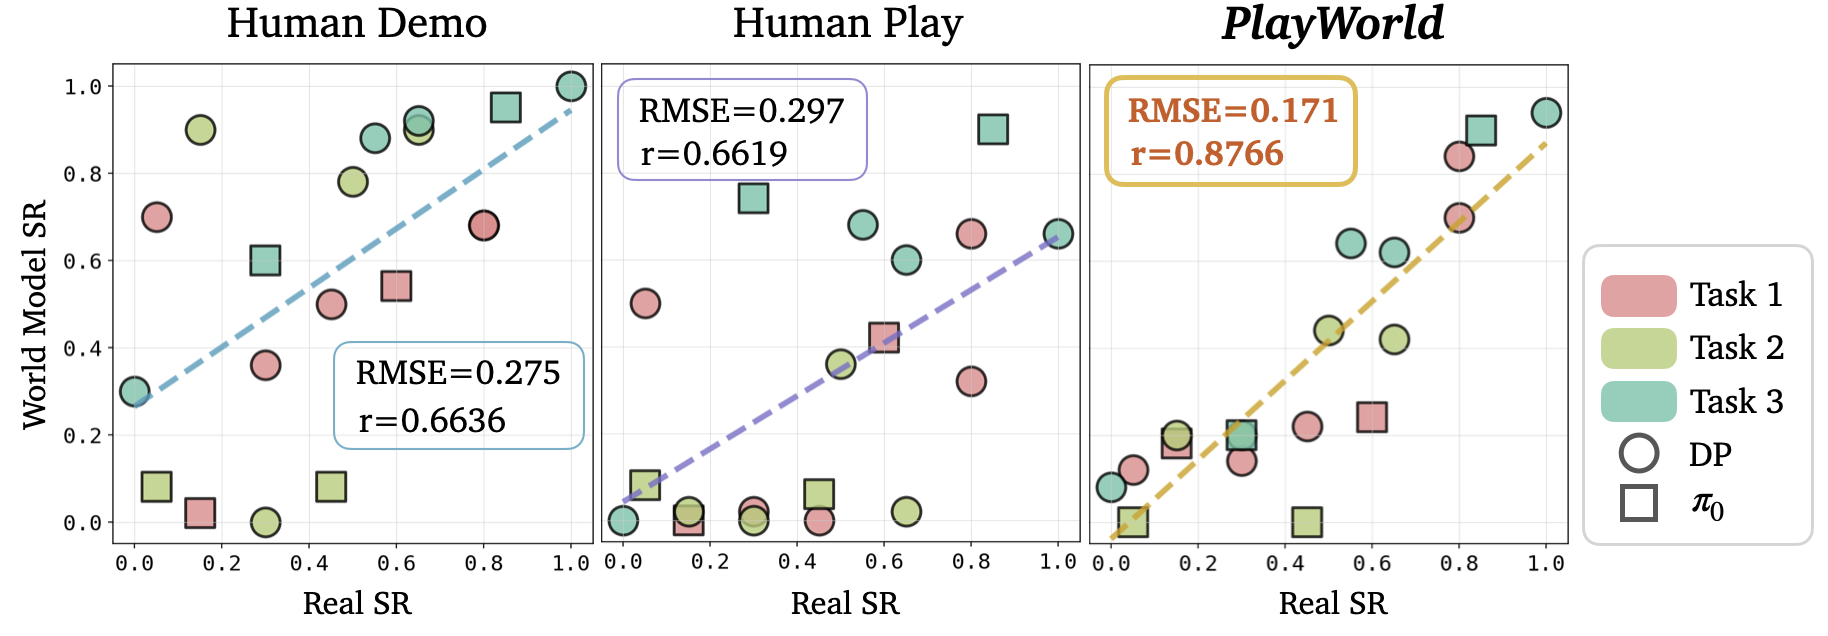
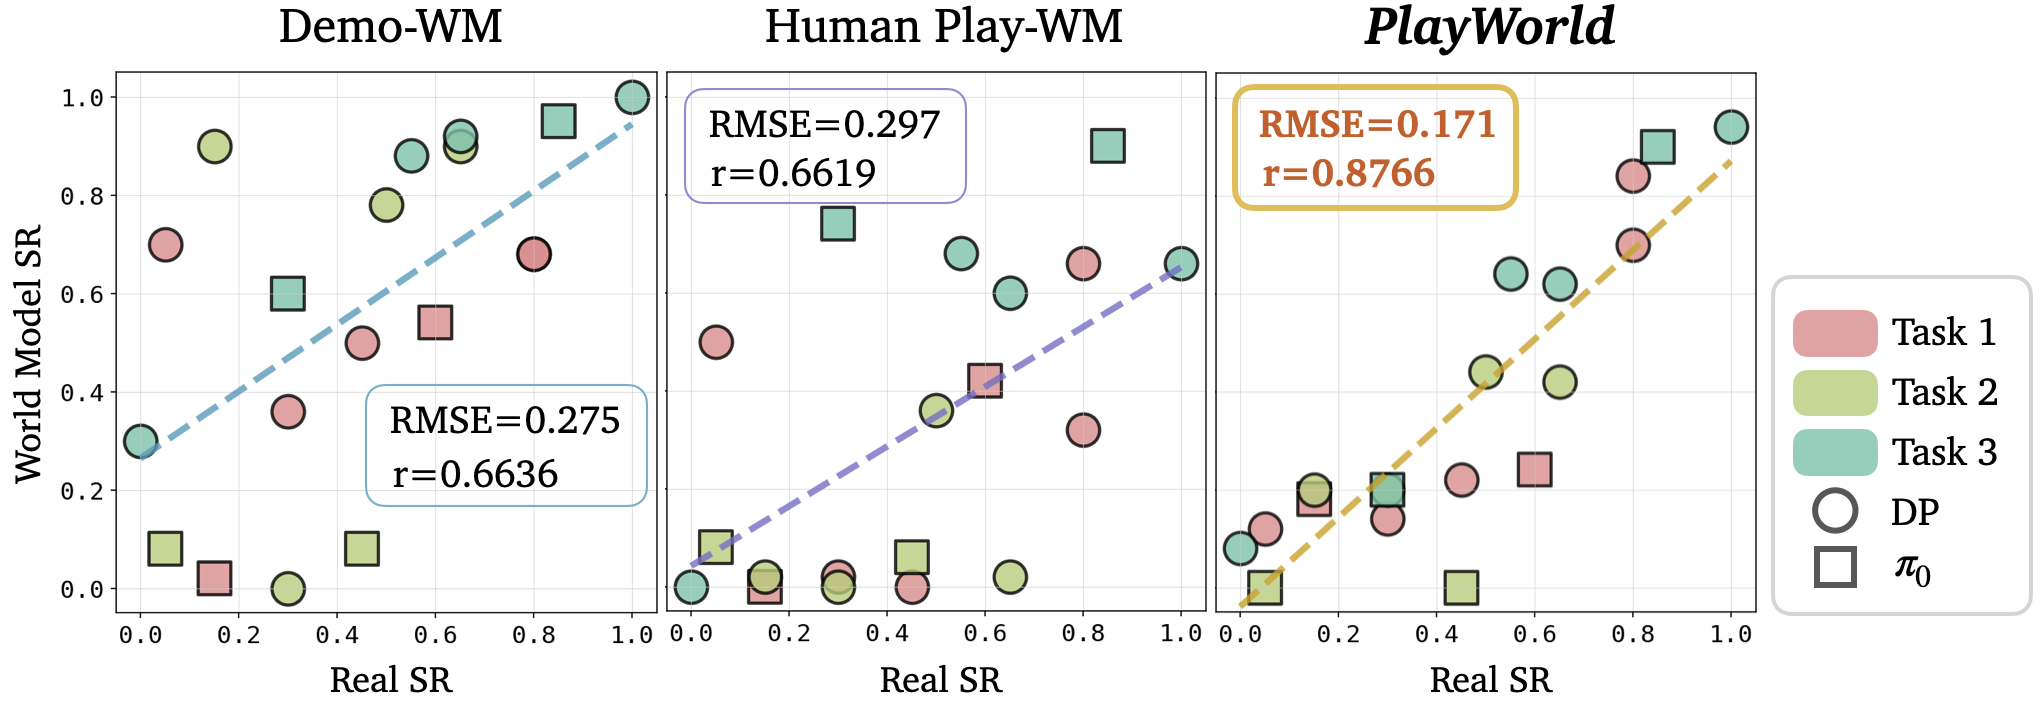
updated author list and text

diff --git a/index.html b/index.html
@@ -39,6 +39,7 @@
             <span style="color: #d84f00; font-weight: 900; letter-spacing: 0.01em;">PlayWorld:</span> Learning Robot World Models from Autonomous Play
           </h1>
           <div class="authors" style="margin: 0 auto 15px auto;">
+            <!--
             <a href="https://tenny-yinyijun.github.io/" target="_blank">Tenny Yin</a><sup>1</sup>,
             <a href="https://may0mei.github.io/" target="_blank">Zhiting Mei</a><sup>1</sup>,
             <a href="#">Zhonghe Zheng</a><sup>1</sup>,
@@ -48,12 +49,25 @@
             <a href="https://bateman.io/" target="_blank">Samuel M. Bateman</a><sup>1</sup>,
             <a href="https://lihzha.github.io/" target="_blank">Lihan Zha</a><sup>1</sup>,
             <a href="https://abadithela.github.io/" target="_blank">Apurva Badithela</a><sup>1</sup>,
-            <!-- <a href="#">David Yoon</a><sup>2</sup>,
+            <a href="#">David Yoon</a><sup>2</sup>,
             <a href="https://sites.google.com/site/petrsvecpersonalwebsite" target="_blank">Petr Svec</a><sup>2</sup>,
-            <a href="https://blandry.xyz/" target="_blank">Benoit Landry</a><sup>2</sup>, -->
+            <a href="https://blandry.xyz/" target="_blank">Benoit Landry</a><sup>2</sup>,
             <a href="https://msl.stanford.edu/people/olashorinwa" target="_blank">Ola Shorinwa</a><sup>1</sup>,
             <a href="https://irom-lab.princeton.edu/majumdar" target="_blank">Anirudha Majumdar</a><sup>1</sup>
             <span class="affiliation"><sup>1</sup>Princeton University
+            -->
+            <a href="https://tenny-yinyijun.github.io/" target="_blank">Tenny Yin</a>,
+            <a href="https://may0mei.github.io/" target="_blank">Zhiting Mei</a>,
+            <a href="#">Zhonghe Zheng</a>,
+            <a href="#">Miyu Yamane</a>,
+            <a href="#">David Wang</a>,
+            <a href="#">Jade Sceats</a>,<br>
+            <a href="https://bateman.io/" target="_blank">Samuel M. Bateman</a>,
+            <a href="https://lihzha.github.io/" target="_blank">Lihan Zha</a>,
+            <a href="https://abadithela.github.io/" target="_blank">Apurva Badithela</a>,
+            <a href="https://msl.stanford.edu/people/olashorinwa" target="_blank">Ola Shorinwa</a>,
+            <a href="https://irom-lab.princeton.edu/majumdar" target="_blank">Anirudha Majumdar</a>
+            <span class="affiliation">Princeton University</span>
             <!-- <span class="affiliation"><sup>1</sup>Princeton University, <sup>2</sup>Apple</span> -->
           </div>
           <div class="publication-links header-links">
@@ -80,7 +94,7 @@
   <section class="section" style="padding-top: 0;">
     <div class="container is-max-desktop"><div class="columns is-centered"><div class="column is-four-fifths">
       <img src="./images/banner.png" alt="PlayWorld banner figure" style="width: 100%; height: auto; display: block; border-radius: 12px;">
-      <p class="figure-caption" style="width: 95%; margin-top: 0.8rem;">We introduce <b><i>PlayWorld</b></i>, a scalable framework for training high-fidelity <b><span style="color: #c2410c;">Action-Conditioned Robot World Models</span></b> using <b><span style="color: #367faf;">Autonomous Robot Play</span></b> that can be used for dynamics prediction, reliable policy evaluation, and world-model-based RL fine-tuning that leads to strong real-world gains. Instead of relying on success-biased human demonstrations, it continuously gathers diverse, contact-rich interactions and failure cases that better match downstream policy rollouts.</p>
+      <p class="figure-caption" style="width: 95%; margin-top: 0.8rem;">We introduce <b><i>PlayWorld</b></i>, a scalable framework for training high-fidelity <b><span style="color: #c2410c;">Action-Conditioned Robot World Models</span></b> using <b><span style="color: #367faf;">Autonomous Play</span></b>. Instead of relying on success-biased human demonstrations, it continuously gathers diverse, contact-rich interactions and failure cases that better match downstream policy behaviors. The resulting model enables accurate <i>dynamics prediction</i>, reliable <i>policy evaluation</i>, and effective world-model-based <i>RL fine-tuning</i> that improves real-world performance.</p>
     </div></div></div>
   </section>
 
@@ -103,7 +117,7 @@
           <p class="figure-caption" style="width: 100%; text-align: center !important; font-style: italic; font-size: 0.92rem; margin-top: 0.45rem;">System overview for autonomous play-data collection.</p>
         </div>
         <div class="column is-half">
-          <p class="figure-caption" style="width: 100%; text-align: left; margin-bottom: 0.5rem;">Training accurate robot world models requires data that captures diverse physical interactions. Instead of relying on success-biased human demos, we leverage <b>robot play</b> consisting of task-agnostic interactions where the robot freely explores how objects respond to contact to obtain broader coverage of real-world dynamics.<br><span style="display: block; height: 0.3rem;"></span>PlayWorld generates play data at scale by using a VLM to propose diverse scene-grounded instructions and using a generalist policy to execute them. As shown above, combined with safety checks and automatic resets, this process yields rich, contact-heavy interactions and enables hours of unsupervised data collection with minimal human intervention, including over-night (videos are shown at 50x speed).</p>
+          <p class="figure-caption" style="width: 100%; text-align: left; margin-bottom: 0.5rem;">Training accurate robot world models requires data that captures diverse physical interactions. Instead of relying on success-biased human demonstrations, we leverage <b>robot play</b> consisting of task-agnostic interactions where the robot freely explores how objects respond to contact to obtain broader coverage of real-world dynamics.<br><span style="display: block; height: 0.3rem;"></span>PlayWorld generates play data at scale by using a VLM to propose diverse scene-grounded instructions and using a generalist policy to execute them. As shown above, combined with safety checks and automatic resets, this process yields rich, contact-heavy interactions and enables hours of unsupervised data collection with minimal human intervention, including over-night (videos are shown at 50x speed).</p>
         </div>
       </div>
     </div></div></div>
@@ -174,18 +188,19 @@
     <div class="container is-max-desktop"><div class="columns is-centered"><div class="column is-four-fifths">
       <h2 class="title is-3 has-text-centered">Policy Evaluation</h2>
       <p class="figure-caption" style="width: 95%; text-align: left; margin-bottom: 0.75rem;">Accurate dynamics prediction is critical for evaluating robot policies with fine behavioral difference and/or failure modes. To test whether PlayWorld supports reliable policy evaluation, we train a diverse set of policies with different architectures and demonstration qualities, producing a wide range of behaviors and failure modes. As shown below, PlayWorld’s predictions closely match real-world success rates and outcome distributions, enabling more reliable evaluation than models trained on human-collected data. We also show qualitative videos below to show the different predicted policy behaviors under different world model + policy combinations.</p>
-      <img src="./images/eval.png" alt="Policy evaluation figure" style="width: 85%; border-radius: 10px; border: 1px solid #ececec; display: block; margin: 0 auto 0.9rem;">
+      <img src="./images/eval.png" alt="Policy evaluation figure" style="width: 85%; border-radius: 10px; border: 1px solid #ececec; display: block; margin: 0 auto 0.45rem;">
+      <p class="figure-caption" style="width: 85%; text-align: center !important; font-size: 0.88rem; margin: 0 auto 0.9rem;">Success Rate Correlation between Real and World Models trained on different data mixtures.</p>
       <div class="dropdown-row"><div class="dropdown-group"><span class="dropdown-label">Policies (todo add 2 policies per task and annotate SR):</span><select id="policy-selection" class="dropdown-select" onchange="selectPolicy()"><option value="block" selected>Block Stacking</option><option value="carrot">Put Carrot in Bowl</option><option value="towel">Fold Towel</option></select></div></div>
-      <div id="policy-block" class="policy-section" style="margin-top: 1rem;"><div class="video-grid three-col"><div class="video-card"><p class="video-label">🌍 <strong>Real:</strong> <span style="font-weight: 400;">successful stack</span></p><video autoplay muted controls loop playsinline preload="none" data-src="./videos/3_policy_eval/block_real.mp4" style="width: 100%;"></video></div><div class="video-card"><p class="video-label">✅ <strong>PlayWorld:</strong> <span style="font-weight: 400;">successful stack</span></p><video autoplay muted controls loop playsinline preload="none" data-src="./videos/3_policy_eval/block_play.mp4" style="width: 100%;"></video></div><div class="video-card"><p class="video-label">⚠ <strong>Demo:</strong> <span style="font-weight: 400;">object hallucinations</span></p><video autoplay muted controls loop playsinline preload="none" data-src="./videos/3_policy_eval/block_demo.mp4" style="width: 100%;"></video></div></div></div>
-      <div id="policy-carrot" class="policy-section" style="display: none; margin-top: 1rem;"><div class="video-grid three-col"><div class="video-card"><p class="video-label">🌍 <strong>Real:</strong> <span style="font-weight: 400;">carrot slips</span></p><video autoplay muted controls loop playsinline preload="none" data-src="./videos/3_policy_eval/carrot_real.mp4" style="width: 100%;"></video></div><div class="video-card"><p class="video-label">✅ <strong>PlayWorld:</strong> <span style="font-weight: 400;">carrot slips</span></p><video autoplay muted controls loop playsinline preload="none" data-src="./videos/3_policy_eval/carrot_play.mp4" style="width: 100%;"></video></div><div class="video-card"><p class="video-label">⚠ <strong>Demo:</strong> <span style="font-weight: 400;">hallucinated success</span></p><video autoplay muted controls loop playsinline preload="none" data-src="./videos/3_policy_eval/carrot_demo.mp4" style="width: 100%;"></video></div></div></div>
-      <div id="policy-towel" class="policy-section" style="display: none; margin-top: 1rem;"><div class="video-grid three-col"><div class="video-card"><p class="video-label">🌍 <strong>Real:</strong> <span style="font-weight: 400;">missed grasp</span></p><video autoplay muted controls loop playsinline preload="none" data-src="./videos/3_policy_eval/towel_real.mp4" style="width: 100%;"></video></div><div class="video-card"><p class="video-label">✅ <strong>PlayWorld:</strong> <span style="font-weight: 400;">missed grasp</span></p><video autoplay muted controls loop playsinline preload="none" data-src="./videos/3_policy_eval/towel_play.mp4" style="width: 100%;"></video></div><div class="video-card"><p class="video-label">⚠ <strong>Demo:</strong> <span style="font-weight: 400;">hallucinated success</span></p><video autoplay muted controls loop playsinline preload="none" data-src="./videos/3_policy_eval/towel_demo.mp4" style="width: 100%;"></video></div></div></div>
+      <div id="policy-block" class="policy-section" style="margin-top: 1rem;"><div class="video-grid three-col"><div class="video-card"><p class="video-label">🌍 <strong>Real:</strong> <span style="font-weight: 400;">successful stack</span></p><video autoplay muted controls loop playsinline preload="none" data-src="./videos/3_policy_eval/block_real.mp4" style="width: 100%;"></video></div><div class="video-card"><p class="video-label">✅ <strong>PlayWorld:</strong> <span style="font-weight: 400;">successful stack</span></p><video autoplay muted controls loop playsinline preload="none" data-src="./videos/3_policy_eval/block_play.mp4" style="width: 100%;"></video></div><div class="video-card"><p class="video-label">⚠ <strong>Demo-WM:</strong> <span style="font-weight: 400;">object hallucinations</span></p><video autoplay muted controls loop playsinline preload="none" data-src="./videos/3_policy_eval/block_demo.mp4" style="width: 100%;"></video></div></div></div>
+      <div id="policy-carrot" class="policy-section" style="display: none; margin-top: 1rem;"><div class="video-grid three-col"><div class="video-card"><p class="video-label">🌍 <strong>Real:</strong> <span style="font-weight: 400;">carrot slips</span></p><video autoplay muted controls loop playsinline preload="none" data-src="./videos/3_policy_eval/carrot_real.mp4" style="width: 100%;"></video></div><div class="video-card"><p class="video-label">✅ <strong>PlayWorld:</strong> <span style="font-weight: 400;">carrot slips</span></p><video autoplay muted controls loop playsinline preload="none" data-src="./videos/3_policy_eval/carrot_play.mp4" style="width: 100%;"></video></div><div class="video-card"><p class="video-label">⚠ <strong>Demo-WM:</strong> <span style="font-weight: 400;">hallucinated success</span></p><video autoplay muted controls loop playsinline preload="none" data-src="./videos/3_policy_eval/carrot_demo.mp4" style="width: 100%;"></video></div></div></div>
+      <div id="policy-towel" class="policy-section" style="display: none; margin-top: 1rem;"><div class="video-grid three-col"><div class="video-card"><p class="video-label">🌍 <strong>Real:</strong> <span style="font-weight: 400;">missed grasp</span></p><video autoplay muted controls loop playsinline preload="none" data-src="./videos/3_policy_eval/towel_real.mp4" style="width: 100%;"></video></div><div class="video-card"><p class="video-label">✅ <strong>PlayWorld:</strong> <span style="font-weight: 400;">missed grasp</span></p><video autoplay muted controls loop playsinline preload="none" data-src="./videos/3_policy_eval/towel_play.mp4" style="width: 100%;"></video></div><div class="video-card"><p class="video-label">⚠ <strong>Demo-WM:</strong> <span style="font-weight: 400;">hallucinated success</span></p><video autoplay muted controls loop playsinline preload="none" data-src="./videos/3_policy_eval/towel_demo.mp4" style="width: 100%;"></video></div></div></div>
     </div></div></div>
   </section>
 
   <section class="section" id="rl-finetuning">
     <div class="container is-max-desktop"><div class="columns is-centered"><div class="column is-four-fifths">
       <h2 class="title is-3 has-text-centered">RL Fine-tuning</h2>
-      <p class="figure-caption" style="width: 95%; text-align: left; margin-bottom: 1.5rem;">World models make reinforcement learning far more practical by allowing policies to improve through simulated interaction rather than costly real-world trials. However, this requires highly accurate dynamics prediction—otherwise policies can exploit model errors and learn behaviors that fail in reality. Using PlayWorld, we perform RL fine-tuning on two manipulation tasks entirely within the world model and observe substantial improvements in real-world performance, with policies learning more robust strategies and recovery behaviors.</p>
+      <p class="figure-caption" style="width: 95%; text-align: left; margin-bottom: 1.5rem;">World models make reinforcement learning far more practical by allowing policies to improve through simulated interaction rather than costly real-world trials. However, this requires highly accurate dynamics prediction to prevent policies from exploiting model errors and learning behaviors that would fail in reality. Using PlayWorld, we perform RL fine-tuning on two manipulation tasks entirely within the world model and observe substantial improvements in real-world performance, with policies learning more robust strategies and recovery behaviors.</p>
       <h4 class="title is-5">Task 1: Remove the Carrot from the Bowl</h4>
       <div class="video-grid three-col" style="align-items: center;">
         <div class="video-card"><p class="video-label">Baseline</p><video autoplay muted controls loop playsinline preload="none" data-src="./videos/4_fine_tuning/carrot-base-2x.mp4"></video></div>
@@ -205,7 +220,7 @@
     <div class="container is-max-desktop">
       <div class="columns is-centered">
         <div class="column is-four-fifths">
-          <h2 class="title is-3 has-text-centered">Generalization</h2>
+          <h2 class="title is-3 has-text-centered">Play Data Generalization</h2>
 
           <div class="generalization-media-row" style="margin-top: 0.4rem;">
             <div class="generalization-media-item">
@@ -237,6 +252,12 @@
   note={Preprint},
   url={https://robot-playworld.github.io}
 }</code></pre></div>
+  <div class="container is-max-desktop has-text-centered" style="margin: 1rem auto 1.5rem auto;">
+    <p style="font-size: 0.9rem; color: #6b7280; margin: 0; text-align: center !important;">
+      This website is based on the
+      <a href="https://github.com/polaris-evals/polaris-evals.github.io" target="_blank">PolaRiS template</a>.
+    </p>
+  </div>
 
   <script>
     function scrollPlayData(direction) {
